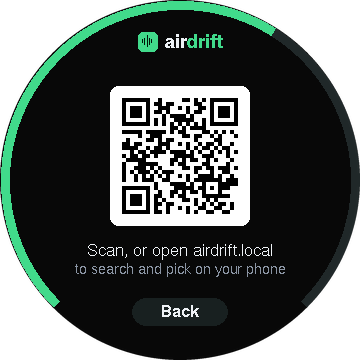
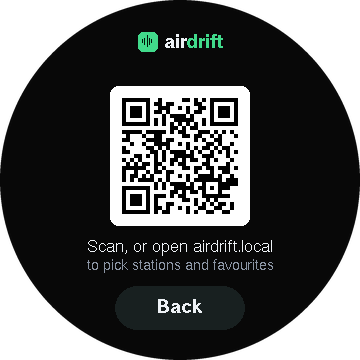
README shows 0.5.1's screens, and the page can switch the screen
New screenshots of every screen: home with Drift, the visualiser with a
song's cover, Favourites, the button's menu, Remote and WiFi setup, and
both tabs of the web page. The text follows: Drift, the visualiser, the
button for a new WiFi or a reset, the charge screen, and the browser
installer at airdrift.stream/esp32 ahead of esptool.

GET /api/ui?name=<screen> shows a screen by name, as the console's "ui"
does, so screenshots no longer need a USB cable.

diff --git a/src/webui.cpp b/src/webui.cpp
@@ -302,6 +302,8 @@ void webui::begin() {
   server.on("/api/prev", HTTP_GET, [] { player::prev(); ok(); });
   server.on("/api/volume", HTTP_GET, [] { player::setVolume(server.arg("v").toInt()); ok(); });
   server.on("/api/lowpower", HTTP_GET, [] { display::setLowPower(server.arg("on") == "1"); ok(); });
+  // A screen by name, for screenshots with /screen.bmp, as the console's "ui" does.
+  server.on("/api/ui", HTTP_GET, [] { display::preview(server.arg("name")); ok(); });
   // Updates from the project's releases: what the newest is, and install it.
   server.on("/api/update/check", HTTP_GET, [] {
     String v, err; bool ok = updater::latest(v, err);

diff --git a/README.md b/README.md
@@ -25,14 +25,20 @@ from almost every country on earth. No account, no app, no subscription: the
 stations come from [Air Drift](https://airdrift.stream), a free directory of
 internet radio, and play straight from their own streams.
 
-The radio has its own web page on your network for searching and picking
-stations from a phone or laptop, remembers what it was playing, saves
-favourites to flash, and updates its own firmware over WiFi.
+Press **Drift** and it lands on a station somewhere on Earth. Left alone while
+it plays, the screen becomes a visualiser: the music radiating from the song's
+cover, with the station and the song running round the rim. The radio has its
+own web page on your network for searching and picking stations from a phone
+or laptop, remembers what it was playing, saves favourites to flash, and
+updates its own firmware over WiFi.
+
+**[Install it from your browser](https://airdrift.stream/esp32)**: plug the
+board in by USB, press one button in Chrome or Edge, and it is a radio.
 
 <p align="center">
-  <img src="docs/screenshots/screen-home.png" alt="The home screen: station name, the song playing, transport buttons and a volume ring" width="260">&nbsp;&nbsp;
-  <img src="docs/screenshots/screen-list.png" alt="The station list: Favourites, Popular and Search pills, five stations with a star on each" width="260">&nbsp;&nbsp;
-  <img src="docs/screenshots/screen-about.png" alt="The connect screen: a QR code for the radio's web page, its address, WiFi and a factory reset" width="260">
+  <img src="docs/screenshots/screen-home.png" alt="The home screen: the station and its country, volume down, Drift and volume up, then Remote and Favourites" width="260">&nbsp;&nbsp;
+  <img src="docs/screenshots/screen-visualiser.png" alt="The visualiser: the spectrum radiating from the song's cover, with the station and song running round the rim" width="260">&nbsp;&nbsp;
+  <img src="docs/screenshots/screen-favourites.png" alt="Favourites: saved stations with a star on each, and the station playing to add" width="260">
 </p>
 
 ## Contents
@@ -105,7 +111,12 @@ both play the same stations.
 
 ## Quick start
 
-**Nothing to build.** Every release on the
+**Nothing to build.** The easiest way is the installer at
+**[airdrift.stream/esp32](https://airdrift.stream/esp32)**: plug the board in
+by USB, open the page in Chrome or Edge on a computer, press **Install on my
+board** and pick its port. It writes the newest release, for either board.
+
+Or from a terminal: every release on the
 [Releases page](https://github.com/Air-Drift/ESP32-S3/releases) has a
 ready-made image for each board, and the newest is always at the same
 address. For the Waveshare board, plug it in by USB and write it at address 0
@@ -134,33 +145,36 @@ For the custom build, the same with `airdrift-devkit-full.bin`
 ## The screen
 
 The Waveshare board's round screen is the whole interface. It draws in Air
-Drift's own palette, with a volume ring around the edge.
+Drift's own palette, with the volume on a ring around the edge and the battery
+in the ring's gap at the bottom.
 
 <table>
   <tr>
-    <td width="33%" align="center"><img src="docs/screenshots/screen-home.png" alt="Home screen while a station plays" width="240"></td>
-    <td width="33%" align="center"><img src="docs/screenshots/screen-list.png" alt="Station list showing the Popular list" width="240"></td>
-    <td width="33%" align="center"><img src="docs/screenshots/screen-phone.png" alt="A QR code for the radio's web page, for searching on a phone" width="240"></td>
+    <td width="33%" align="center"><img src="docs/screenshots/screen-home.png" alt="Home: the station and its country, volume down, Drift and volume up, then Remote and Favourites" width="240"></td>
+    <td width="33%" align="center"><img src="docs/screenshots/screen-visualiser.png" alt="The visualiser: the spectrum radiating from the song's cover, the station and song round the rim" width="240"></td>
+    <td width="33%" align="center"><img src="docs/screenshots/screen-favourites.png" alt="Favourites: three saved stations with a star on each, and the station playing to add" width="240"></td>
   </tr>
   <tr>
-    <td><strong>Home.</strong> The station, the song, volume down and up, previous, play/pause, next. The star saves the station; Stations opens the list. Swipe left or right for the next or previous station, up for the list.</td>
-    <td><strong>Stations.</strong> Three pills, always the same three: Favourites, Popular and Search. Tap a row to play it, its star to save it, the arrows to page. A country or genre loaded from the web page shows here too.</td>
-    <td><strong>Search.</strong> Searching needs a keyboard, so the magnifier hands over to the web page with a QR code. Pick a station there and the screen goes home with it.</td>
+    <td><strong>Home.</strong> The station and its country, volume down and up, and <strong>Drift</strong>: a random country, weighted by how many stations it has, and one of its most played. A station that does not answer is drifted on from. While a drift tunes, the button greys out. Swipe left or right for the next or previous station in the drift.</td>
+    <td><strong>Visualiser.</strong> Left alone while it plays, the screen becomes the music: a spectrum radiating from the song's cover (found on MusicBrainz and the Cover Art Archive), else the station's logo, with the station, its country and the song running round the rim. A touch brings home back. In <em>low power mode</em> the screen sleeps instead.</td>
+    <td><strong>Favourites.</strong> Three to a page: tap a row to play it, its star to drop it, the arrows (or a swipe up or down) to page. The station playing, if it is not saved yet, waits at the top to be added.</td>
   </tr>
   <tr>
-    <td align="center"><img src="docs/screenshots/screen-empty.png" alt="Nothing playing yet: Pick a station or Use my phone" width="240"></td>
+    <td align="center"><img src="docs/screenshots/screen-menu.png" alt="The button's menu: Resume, New WiFi and Reset device" width="240"></td>
+    <td align="center"><img src="docs/screenshots/screen-phone.png" alt="Remote: a QR code for the radio's web page" width="240"></td>
     <td align="center"><img src="docs/screenshots/screen-setup.png" alt="Let's get you online: a QR code that joins the Air Drift Setup network" width="240"></td>
-    <td align="center"><img src="docs/screenshots/screen-about.png" alt="The connect screen with the page's QR code, address, WiFi and factory reset" width="240"></td>
   </tr>
   <tr>
-    <td><strong>Nothing playing yet.</strong> The first thing a new radio shows once it is online: pick from the Popular list here, or use a phone.</td>
+    <td><strong>The button.</strong> The button on the side pauses the music and opens a menu: <strong>Resume</strong> (or press the button again; <strong>Close</strong> when nothing was playing), <strong>New WiFi</strong> to set up another network, <strong>Reset device</strong>. The last two ask for a second tap.</td>
+    <td><strong>Remote.</strong> Searching needs a keyboard, so Remote shows a QR code for the radio's web page. Pick a station there and the screen goes home with it.</td>
     <td><strong>Let's get you online.</strong> With no WiFi stored, a QR code that joins the radio's setup network. See <a href="#first-boot">First boot</a>.</td>
-    <td><strong>Hold the logo</strong> for the connect screen: the page's QR code, hostname and IP, WiFi network and signal, firmware version, and <strong>Factory reset</strong> (tap it twice).</td>
   </tr>
 </table>
 
-Volume buttons repeat while held. A tap on the logo always leads home. The
-BOOT button on the board is play/pause too.
+Volume buttons repeat while held. A tap on the logo always leads home; holding
+it shows the connect screen, with the page's address, the WiFi signal and the
+firmware version. Plugged in to charge, the radio starts on a charge screen
+rather than playing; a touch or the button starts the radio.
 
 ## The web page
 
@@ -175,11 +189,12 @@ the browser from their own hosts, never through the radio.
   </tr>
   <tr>
     <td><strong>Radio.</strong> What is playing with its logo, play/pause, previous, next, stop, volume, a box for any link or stream, then Favourites, Popular, Trending, a country, a genre, and search. Stations without a logo get their initials on a tint, as on the site.</td>
-    <td><strong>Device.</strong> Board and chip, CPU load per core, memory with low-water marks, WiFi signal and addresses, the audio pipeline with its stream buffer, every FreeRTOS task, a screenshot of the screen, and the firmware update.</td>
+    <td><strong>Device.</strong> The screen's low power switch first, then board and chip, CPU load per core, memory with low-water marks, WiFi signal and addresses, the audio pipeline with its stream buffer, every FreeRTOS task, a screenshot of the screen, and the firmware update.</td>
   </tr>
 </table>
 
-The page is plain HTML and JavaScript served from flash: one file, no build
+A third tab, **Apps**, links Air Drift's apps for phones, computers, TVs and
+Alexa. The page is plain HTML and JavaScript served from flash: one file, no build
 step, no framework. Anything it does, the [API](#api) does too.
 
 ## First boot
@@ -191,12 +206,11 @@ step, no framework. Anything it does, the [API](#api) does too.
    settings), and the setup page opens by itself. It lists the networks in
    range, strongest first; pick yours, type the password, **Connect**. The
    screen says "Joining…", then the setup network switches itself off.
-2. Once online it offers two ways in: **Pick a station** opens the Popular
-   list on the screen; **Use my phone** shows a QR code for the radio's own
-   web page, with the address in words (`airdrift.local`).
-3. Hold the logo at any time for the connect screen, with the page's QR code
-   and a **Factory reset** that forgets WiFi, favourites and the last station
-   and starts over at step 1, for moving house or handing it on.
+2. Once online, press **Drift**. **Remote** shows a QR code for the radio's
+   own web page, with the address in words (`airdrift.local`), for searching.
+3. For a new network, press the button on the side and pick **New WiFi**: it
+   starts over at step 1. **Reset device** there forgets WiFi, favourites and
+   the last station too, for moving house or handing it on.
 
 **The custom build** has no screen, so:
 
